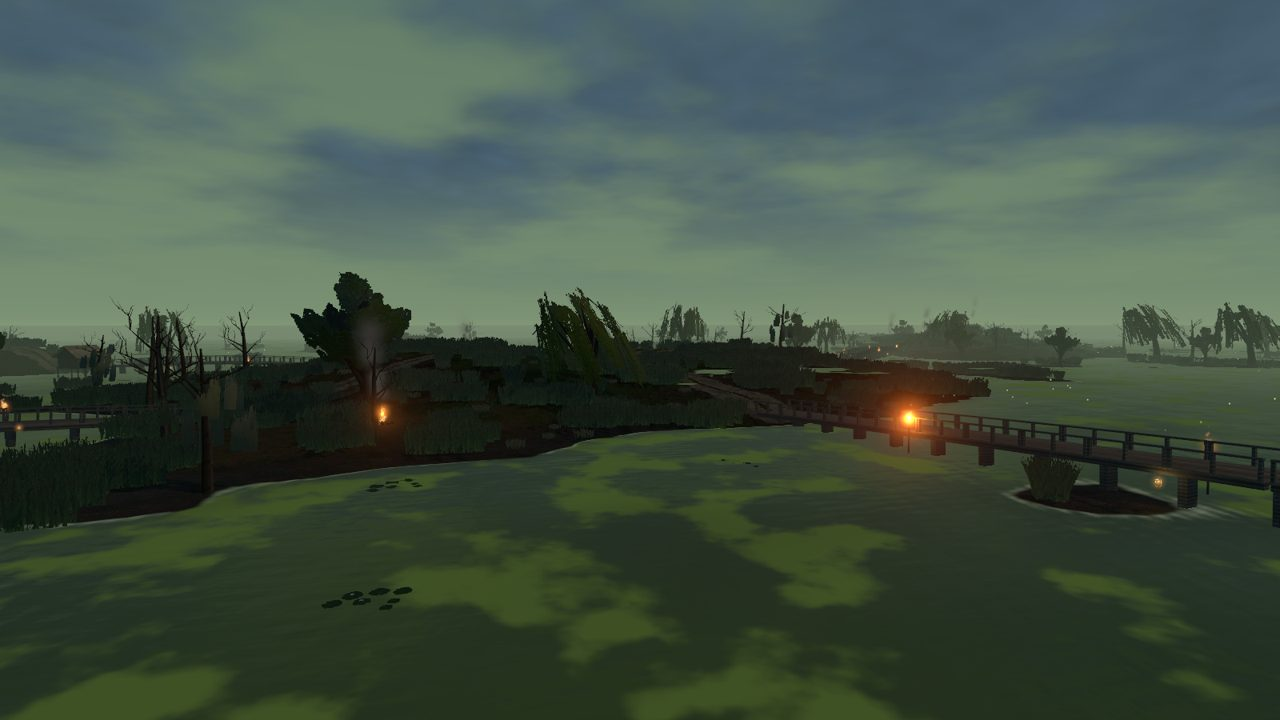
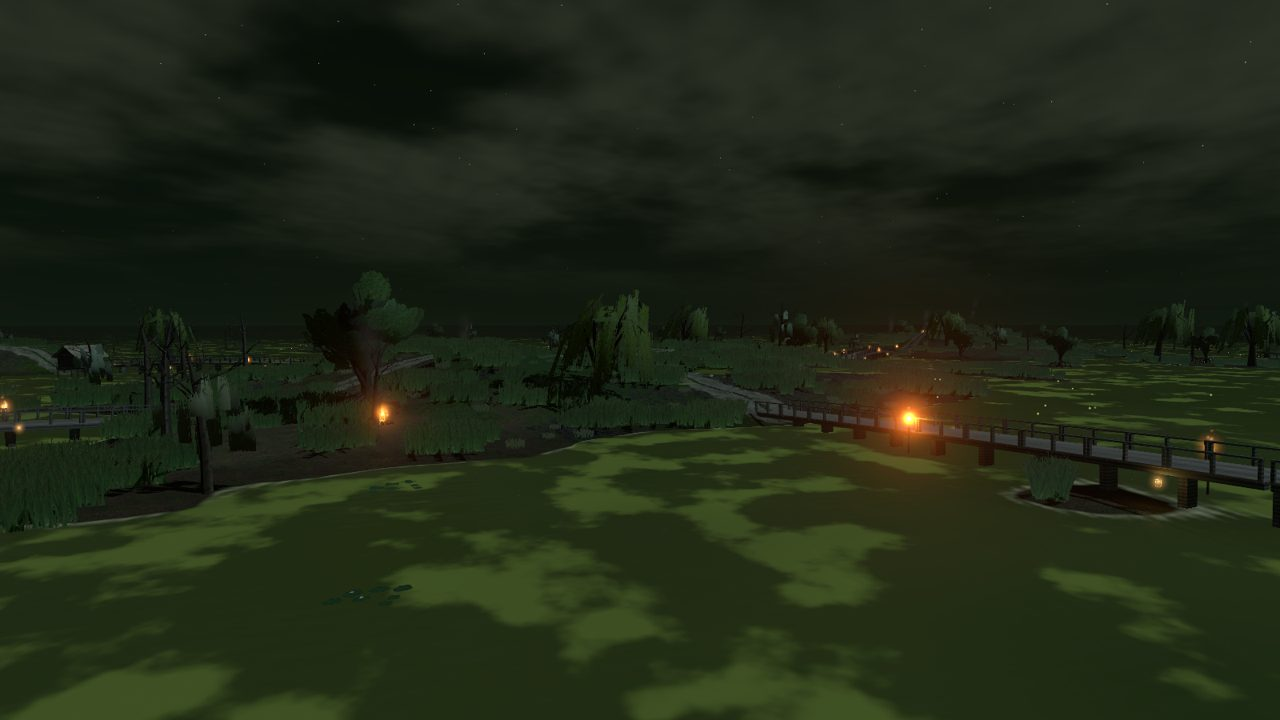
feat(maps): witch marsh back to a moonlit night
With the renderer's moonlight the marsh is a night again: swamp look,
night sky, moonlight 1. Walks, islands and boardwalks read from the game
camera, the lanterns, fires and the witch's green light stand out; the
blue-tinted dusk workaround is gone.

Map trial: passed, HQ 422.8 of 500. Game view 874 fps (dev server).

diff --git a/tools/maps/levels/witch-marsh.ts b/tools/maps/levels/witch-marsh.ts
@@ -139,9 +139,8 @@ export function buildWitchMarsh(): CustomMapDocument {
 
   // Five ground materials load faster than eight; the least used go
   k.trimLayers(5);
-  // Night as film makes it ("day for night"): the dusk light tinted deep blue, so walks, islands and enemies read
-  // from the game camera, and the swamp look lays its haze flat over the water. The night preset is too dark for
-  // that (a moonlight setting is wished from the renderer); lanterns, fires and fireflies are the warm points
-  k.environment({ biome: 'swamp', sky: 'dusk', sunAzimuth: 210, sunElevation: 40, fogDensity: 0.0006, tint: '#7890ea' });
+  // Night under a bright blue moon: the swamp look lays its haze flat over the water, the moonlight lets walks,
+  // islands and enemies read from the game camera, lanterns, fires and fireflies stay the warm points
+  k.environment({ biome: 'swamp', sky: 'night', sunAzimuth: 210, sunElevation: 50, fogDensity: 0.0006, tint: '#ffffff', moonlight: 1 });
   return k.finish();
 }

diff --git a/docs/SHOWCASE_LEVELS.md b/docs/SHOWCASE_LEVELS.md
@@ -56,11 +56,9 @@ und Felsterrassen über der Straße.
 `docs/images/levels/witch-marsh.jpg`, `witch-marsh-game.jpg`. Die Stege sind Wege der Art Bridge (das Holzdeck mit
 Geländer), gelegt, wo die Linie übers Wasser läuft; Fackeln an den Stegen. Feinschliff: dunkler Sternenhimmel (Look
 `temperate` bei Nacht, weil der Sumpf-Look nachts helle Wolken hat; an den Renderer gemeldet), tiefe Nebelbänke übers
-offene Wasser, Moos, Schlamm und Wurzeln auf den Inseln, Laternen an den Pfahlhütten, Kessel und Leuchtpilze. Lesbarkeit (Runde 3): Der Nacht-Himmel des Renderers ist für die Spielkamera zu dunkel (Inseln schwarz); bis ein
-Mondlicht-Regler da ist (beim Renderer gewünscht), läuft die Karte als blaue Dämmerung im Sumpf-Look („day for
-night“), dessen Dunst flach über dem Wasser liegt. Nebelbälle nur noch klein an den Spawns, Laternen und Fackeln alle
-16 m an den Stegen, Lagerfeuer auf den großen Inseln, Glühwürmchen-Wolken über dem offenen Wasser. Kartenprobe HQ 403
-von 500.
+offene Wasser, Moos, Schlamm und Wurzeln auf den Inseln, Laternen an den Pfahlhütten, Kessel und Leuchtpilze. Lesbarkeit: Nacht im Sumpf-Look mit `moonlight: 1` (kühles Mondlicht des Renderers), dessen Dunst flach über dem
+Wasser liegt; Wege, Inseln und Stege sind aus der Spielkamera klar. Nebelbälle nur noch klein an den Spawns, Laternen
+und Fackeln alle 16 m an den Stegen, Lagerfeuer auf den großen Inseln, Glühwürmchen-Wolken über dem offenen Wasser.
 
 Biom Sumpf, Look `swamp`, Nacht mit Bodennebel und Glühwürmchen. Ein Bohlenweg über Sumpfwasser, Inseln mit
 Pfahlhütten, die Hexenhütte mit grün leuchtenden Fenstern als HQ-Kulisse, Laternen an den Stegen als einzige
